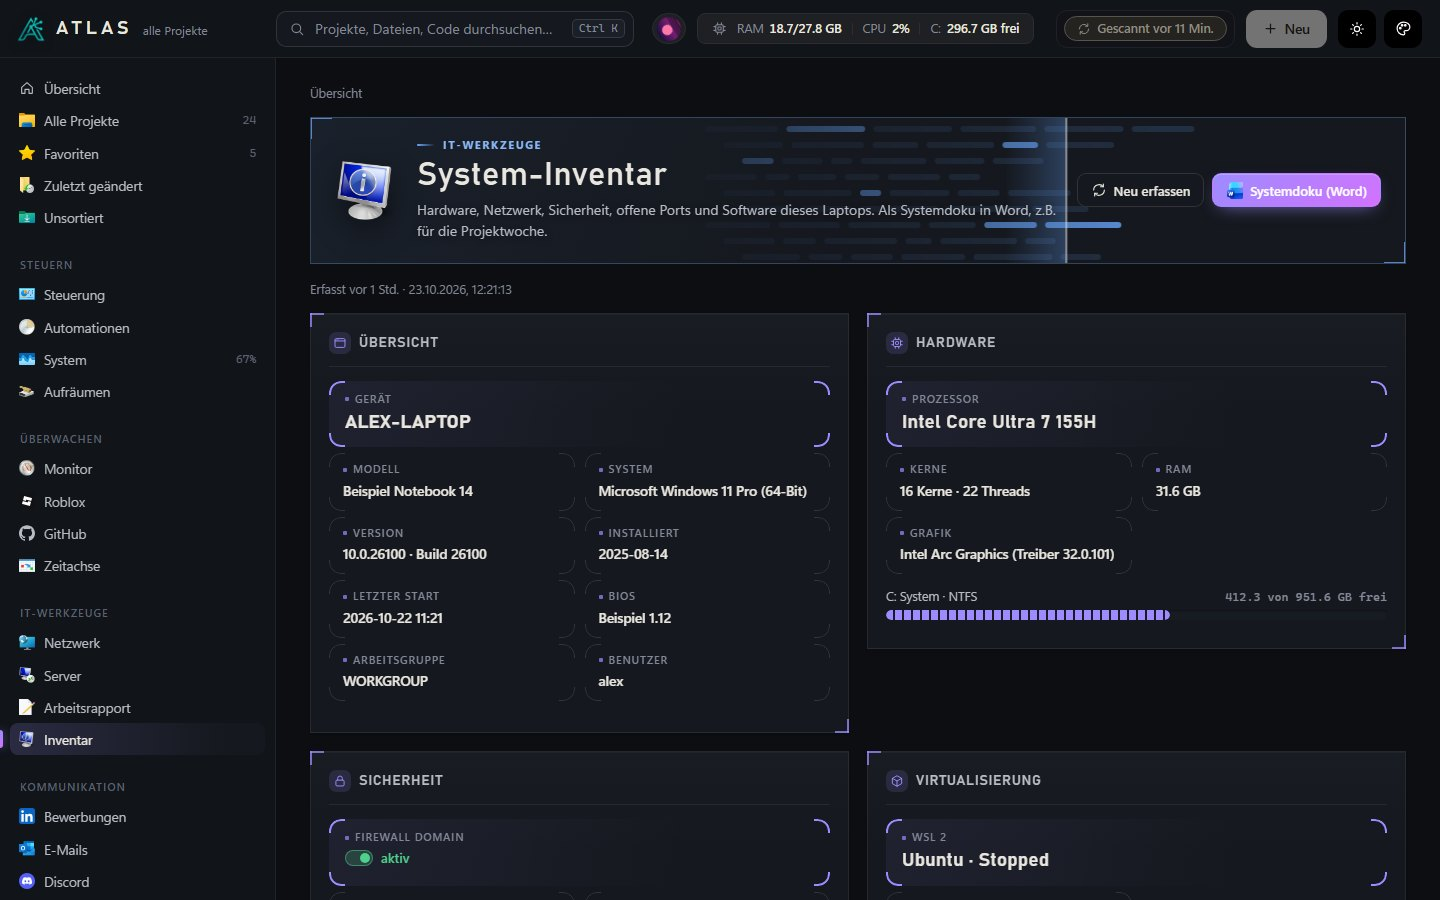
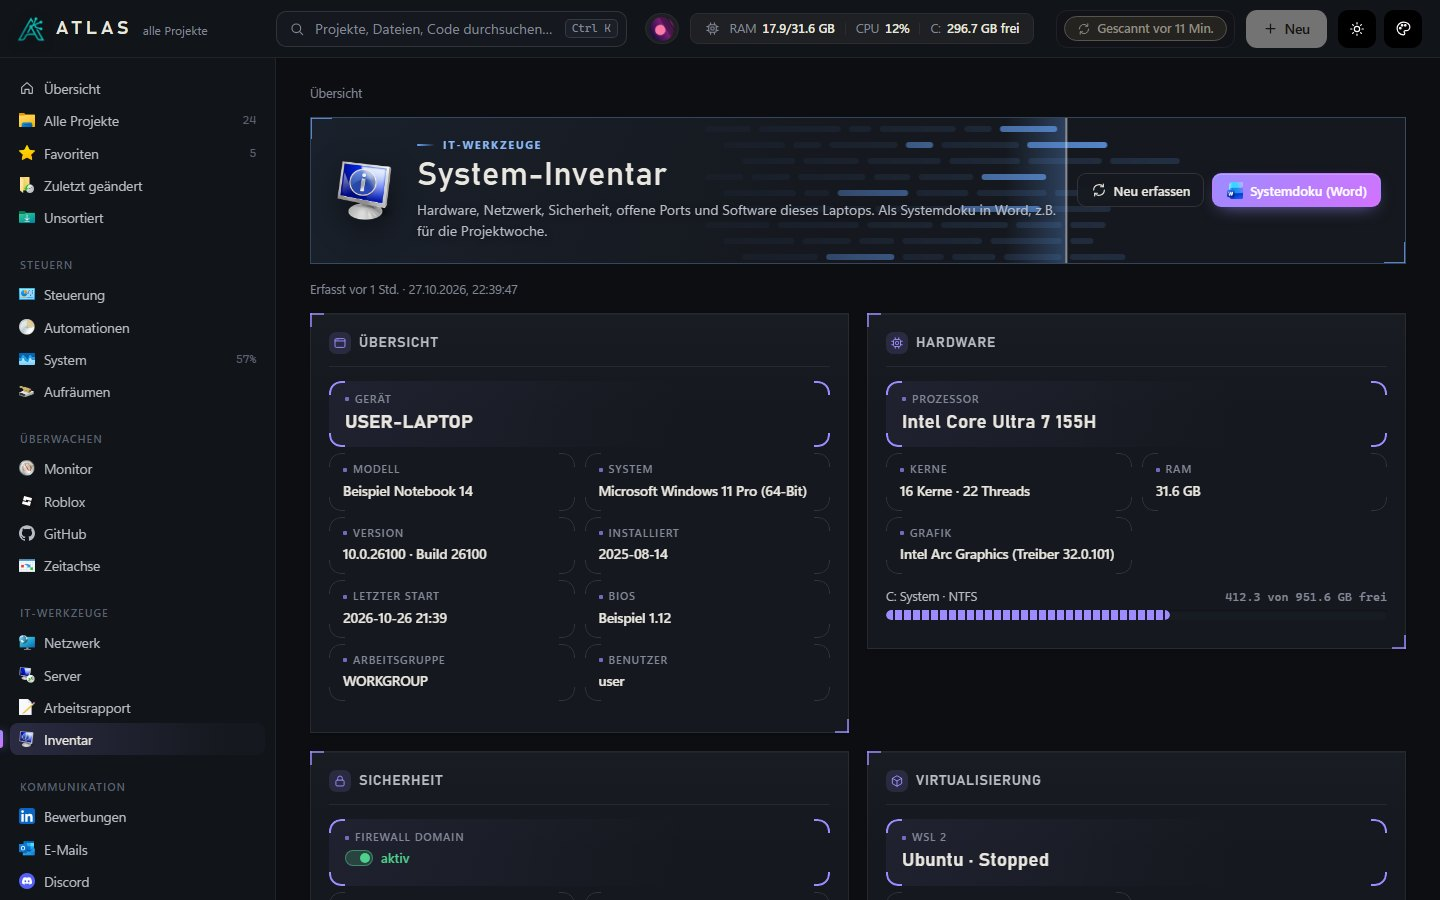
Demo: Beispielname User statt Alex
Name, Laptop, Konten und Beispiel-Domain in der Demo heissen jetzt User,
Screenshots neu aufgenommen, Platzhalter-Domain neutral.

diff --git a/demo/demo-api.js b/demo/demo-api.js
@@ -26,7 +26,7 @@
       battery: { pct: 84, plugged: false, left: 15400 } };
     if (!full) return s;
     return { ...s, cpuName: "Intel Core Ultra 7 155H", cores: 16, threads: 22, freq: 2000, boot: now() - 26 * 3600, os: "Windows 11 (Build 10.0.26200)",
-      host: "ALEX-LAPTOP", perCore: Array.from({ length: 22 }, () => Math.round(Math.max(0, cpu + rnd(-12, 18)))), procCount: 287,
+      host: "USER-LAPTOP", perCore: Array.from({ length: 22 }, () => Math.round(Math.max(0, cpu + rnd(-12, 18)))), procCount: 287,
       procs: [["Code.exe", 2.1e9, 14], ["brave.exe", 1.8e9, 22], ["pythonw.exe", 3.1e8, 2], ["explorer.exe", 2.6e8, 1], ["node.exe", 2.2e8, 3], ["Obsidian.exe", 1.9e8, 6], ["Discord.exe", 1.7e8, 7], ["Spotify.exe", 1.5e8, 5]]
         .map(([name, rss, count]) => ({ name, rss, count })) };
   }
@@ -42,7 +42,7 @@
 
   // ---------------------------------------------------------- erfundene Inhalte (Mails, Discord, Bewerbungen, Notizen)
   const MAILS = [
-    ["GitHub", "[alex/harbor] Run succeeded: ci", "Alle Jobs im Workflow e2e wurden erfolgreich abgeschlossen.", 18, false],
+    ["GitHub", "[user/harbor] Run succeeded: ci", "Alle Jobs im Workflow e2e wurden erfolgreich abgeschlossen.", 18, false],
     ["Berufsschule", "Stundenplan Woche 44", "Anbei der Stundenplan für die kommende Woche. Modul 346 findet im Zimmer 2.14 statt.", 95, true],
     ["Praxisbetrieb", "Rückmeldung zum Wochenrapport", "Danke für den Rapport, sauber dokumentiert. Bitte nächste Woche auch die Ticketnummern ergänzen.", 260, false],
     ["Roblox", "Your experience reached 18,000 visits", "Congratulations! Tower Tycoon just reached a new milestone.", 600, false],
@@ -51,7 +51,7 @@
   ];
   const mailItems = MAILS.map(([from, subject, preview, ago, unread], i) => ({ att: i === 1 ? 1 : 0, id: "demo" + i, subject, important: i === 5, unread, from, date: iso(ago), preview }));
   const DISCORD_MSGS = [["Max", "Hat jemand das neue Update von Tower Tycoon getestet?", 12], ["ATLAS", "🟢 Alle 10 Live-Seiten sind online.", 30],
-    ["Lena", "Die neue Etage ist richtig gut geworden", 44], ["Alex", "Morgen kommt noch ein Balancing-Patch.", 70], ["ATLAS", "Pipeline tasklane · ci ist wieder grün.", 140]];
+    ["Lena", "Die neue Etage ist richtig gut geworden", 44], ["User", "Morgen kommt noch ein Balancing-Patch.", 70], ["ATLAS", "Pipeline tasklane · ci ist wieder grün.", 140]];
   const guild = { id: "g1", name: "ATLAS Demo", icon: null, banner: null, description: "Beispielserver", members: 24, online: 7, boost: 0, boosts: 0, roles: 6, emojis: 3, owner: "o",
     channels: [["c1", "willkommen", "Allgemein"], ["c2", "updates", "Allgemein"], ["c3", "tower-tycoon", "Spiele"], ["c4", "atlas-meldungen", "Bots"]]
       .map(([id, name, category], pos) => ({ id, name, type: "text", category, pos, catpos: 0, topic: null })) };
@@ -82,9 +82,9 @@
   const simPorts = (h, p) => { const list = SETS[p] || (p === "alle" ? Object.keys(SERV).map(Number) : (p.match(/\d+/g) || []).map(Number));
     const open = /^127\./.test(h) ? [3306, 4321, 135, 445] : [80, 443, 22];
     return { host: h, ports: list.map((port) => ({ port, open: open.includes(port), ms: open.includes(port) ? Math.round(rnd(1, 20)) : null, service: SERV[port] || "" })) }; };
-  const simDns = (n, t) => { const rec = { A: ["185.199.108.153", "185.199.109.153"], AAAA: ["2606:50c0:8000::153"], MX: ["10 mail.example.ch"], TXT: ["v=spf1 include:_spf.example.ch ~all"], NS: ["ns1.example.ch", "ns2.example.ch"], CNAME: ["alex-dev.example"], SOA: ["ns1.example.ch"], PTR: ["host.example.ch"] }[t] || [];
+  const simDns = (n, t) => { const rec = { A: ["185.199.108.153", "185.199.109.153"], AAAA: ["2606:50c0:8000::153"], MX: ["10 mail.example.ch"], TXT: ["v=spf1 include:_spf.example.ch ~all"], NS: ["ns1.example.ch", "ns2.example.ch"], CNAME: ["user-dev.example"], SOA: ["ns1.example.ch"], PTR: ["host.example.ch"] }[t] || [];
     return { name: n, type: t, records: rec.map((value) => ({ name: n, type: t, ttl: 3600, value })), error: rec.length ? null : "Kein Eintrag gefunden" }; };
-  const LAN = [["192.168.1.1", "router.local", "router"], ["192.168.1.20", "raspberrypi", ""], ["192.168.1.34", "drucker-wz", ""], ["192.168.1.42", "ALEX-LAPTOP", "me"], ["192.168.1.102", "handy", ""], ["192.168.1.120", "nas", ""]];
+  const LAN = [["192.168.1.1", "router.local", "router"], ["192.168.1.20", "raspberrypi", ""], ["192.168.1.34", "drucker-wz", ""], ["192.168.1.42", "USER-LAPTOP", "me"], ["192.168.1.102", "handy", ""], ["192.168.1.120", "nas", ""]];
   let lanOk = false;
   const hosts = { hosts: [
     { id: "h1", name: "LAB-SRV01", host: "192.168.56.10", port: 3389, kind: "rdp", user: "administrator", note: "Windows Server 2022 in VirtualBox", ms: 1, up: true },
@@ -136,7 +136,7 @@
         return json({ path: q("path"), size: f.text.length, mtime: now(), ext: name.slice(name.lastIndexOf(".")), cloud: false, kind: "text", content: f.text, truncated: false, lang: name.endsWith(".md") ? "Markdown" : "PowerShell" });
       }
       case "/api/mail": return json({ ok: true, items: mailItems, unread: mailItems.filter((m) => m.unread).length, folder: q("folder", "inbox"), total: mailItems.length });
-      case "/api/mail/item": { const m = mailItems.find((x) => x.id === q("id")) || mailItems[0]; return json({ ok: true, ...m, to: "alex@example.ch", cc: "", body: `${m.preview}\n\nFreundliche Grüsse\n${m.from}`, attachments: m.att ? ["Stundenplan.pdf"] : [] }); }
+      case "/api/mail/item": { const m = mailItems.find((x) => x.id === q("id")) || mailItems[0]; return json({ ok: true, ...m, to: "user@example.ch", cc: "", body: `${m.preview}\n\nFreundliche Grüsse\n${m.from}`, attachments: m.att ? ["Stundenplan.pdf"] : [] }); }
       case "/api/discord": return json({ configured: true, bot: { id: "b", name: "ATLAS", avatar: null }, invite: "#", envAvailable: false, guilds: [guild] });
       case "/api/discord/messages": return json({ messages: DISCORD_MSGS.map(([author, content, ago], i) => ({ id: "m" + i, author, avatar: null, bot: author === "ATLAS", content, date: iso(ago), attachments: [], embeds: 0 })) });
     }

diff --git a/demo/app.js b/demo/app.js
@@ -312,7 +312,7 @@ function viewHome() {
     <section class="hero ${LOOK.banner ? "has-banner" : ""}" id="hero">${LOOK.banner ? heroBanner() : topo("atlas-hero", "currentColor", 1200, 260, 14).replace('fill-opacity=".07"', 'fill-opacity="0"').replace('class="topo"', 'class="hero-topo"')}
       <div class="hero-edit"><button class="btn sm" data-act="banner" title="Eigenes Bannerbild (auch per Drag & Drop oder Ctrl+V)">${icon("image")}${LOOK.banner ? "Banner ändern" : "Banner-Bild"}</button></div>
       <div class="hero-date">${new Date().toLocaleDateString("de-CH", { weekday: "long", day: "numeric", month: "long" })}</div>
-      <h1>${greet}, <span>Alex</span>.</h1>
+      <h1>${greet}, <span>User</span>.</h1>
       <p>Alle deine Projekte an einem Ort: von der Kubernetes-Plattform bis zum losen Python-Skript. Sortiert nach Bereichen, durchsuchbar bis in den Code.</p>
       <div class="kpis">
         <div class="kpi"><b>${all.length}</b><span>Projekte</span></div>
@@ -1044,7 +1044,7 @@ function editor(p, preset = {}) {
     </div></fieldset>
     <fieldset class="fs"><legend>${icon("link")}Verknüpfungen &amp; Start</legend><div class="form">
       <div class="field"><label for="pfLive">Live-URL</label><input id="pfLive" name="live" value="${esc(v.live || "")}" placeholder="https://…"></div>
-      <div class="field"><label for="pfRepo">GitHub-Repo</label><input id="pfRepo" name="repo" value="${esc(v.repo || "")}" placeholder="alex/name"></div>
+      <div class="field"><label for="pfRepo">GitHub-Repo</label><input id="pfRepo" name="repo" value="${esc(v.repo || "")}" placeholder="user/name"></div>
       <div class="field"><label for="pfServe">Startseite (lokal)</label><input id="pfServe" name="serve" value="${esc(v.serve || "")}" placeholder="index.html"><small>Öffnet die Seite über ATLAS</small></div>
       <div class="field"><label for="pfRun">Start-Befehl</label><input id="pfRun" name="run" value="${esc(v.run || "")}" placeholder="npm run dev"><small>Läuft in PowerShell im ersten Ordner</small></div>
     </div></fieldset></div>

diff --git a/demo/it.js b/demo/it.js
@@ -282,7 +282,7 @@ async function loadExpiry(fresh) {
     ${e.items.map((it) => `<div class="exp"><span class="sdot ${col(it.days)}"></span><div class="srv-meta"><b>${esc(it.name)}</b><small>${new Date(it.date).toLocaleDateString("de-CH")}${it.note ? " · " + esc(it.note) : ""}</small></div>
       <span class="exp-days">${it.days < 0 ? "abgelaufen" : "noch " + it.days + " Tage"}</span>${bar(it.days)}<button class="icon-btn sm" data-exp-del="${it.id}" title="Entfernen">${icon("x")}</button></div>`).join("")}</div>
     <form class="it-form" data-expform style="margin-top:12px"><input name="name" placeholder="Was läuft ab? (Lizenz, Token, Domain …)" required aria-label="Name"><input name="date" type="date" required aria-label="Datum" style="max-width:160px"><input name="note" placeholder="Notiz" aria-label="Notiz" style="max-width:180px"><button class="btn">${icon("plus")}Hinzufügen</button></form>
-    <form class="it-form" data-domform style="margin-top:8px"><input name="domain" placeholder="Weitere Domain fürs Zertifikat, z.B. ipso.ch" aria-label="Domain"><button class="btn btn-ghost">${icon("lock")}Zertifikat überwachen</button></form>
+    <form class="it-form" data-domform style="margin-top:8px"><input name="domain" placeholder="Weitere Domain fürs Zertifikat, z.B. example.com" aria-label="Domain"><button class="btn btn-ghost">${icon("lock")}Zertifikat überwachen</button></form>
     <div class="dc-note" style="margin-top:8px">Tipp: Unter Automationen gibt es die Vorlage «Zertifikat/Lizenz läuft ab → Meldung».</div>`;
 }
 

diff --git a/demo/extras.js b/demo/extras.js
@@ -285,7 +285,7 @@ async function loadDiscord() {
           <li>Token hier einfügen und verbinden. Danach mit «Bot zu Server hinzufügen» auf deine Server einladen.</li>
         </ol>
         <form id="dcForm" style="display:flex;gap:8px;margin-top:10px"><input type="password" class="select" name="token" placeholder="Bot-Token" style="flex:1;height:36px" autocomplete="off"><button class="btn btn-accent">${icon("check")}Verbinden</button></form></div>
-      <p class="dc-note">Der Token wird nur lokal in <code>C:\\Users\\alex\\.atlas\\discord.json</code> gespeichert und nie angezeigt.</p></div>`;
+      <p class="dc-note">Der Token wird nur lokal in <code>C:\\Users\\user\\.atlas\\discord.json</code> gespeichert und nie angezeigt.</p></div>`;
     $("#dcActions").innerHTML = "";
     return;
   }

diff --git a/index.html b/index.html
@@ -66,7 +66,7 @@
 
       <div class="map">
         <div class="window">
-          <div class="window-bar"><span class="tag-live">LIVE</span><b>ATLAS</b><span>Beispieldaten von «Alex»</span><a href="demo.html">Vollbild</a></div>
+          <div class="window-bar"><span class="tag-live">LIVE</span><b>ATLAS</b><span>Beispieldaten von «User»</span><a href="demo.html">Vollbild</a></div>
           <div class="stage" id="mapStage">
             <iframe src="demo/" title="ATLAS Live-Demo mit Beispieldaten" loading="eager"></iframe>
             <div class="marks" id="marks" aria-hidden="true">

diff --git a/handbuch.html b/handbuch.html
@@ -73,7 +73,7 @@
   "section": "plattform",
   "status": "live",
   "paths": ["{CLAUDE}/harbor"],
-  "live": "https://harbor.alex-dev.example/"
+  "live": "https://harbor.user-dev.example/"
 }</code></pre>
       <p>Status sind <strong>Live</strong>, <strong>Aktiv</strong>, <strong>Entwurf</strong>, <strong>Pausiert</strong>, <strong>Fertig</strong> und <strong>Archiv</strong>. Office-Dateien müssen nicht eingetragen werden: Die Sammlungen werden bei jedem Scan neu gebildet.</p>
 
